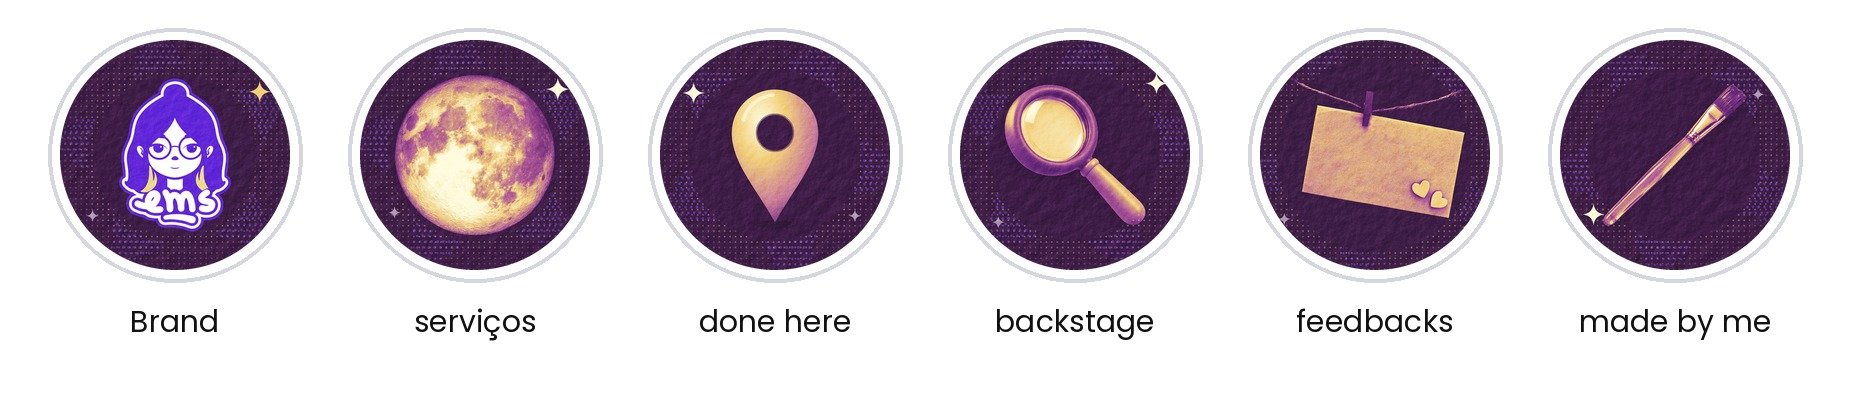
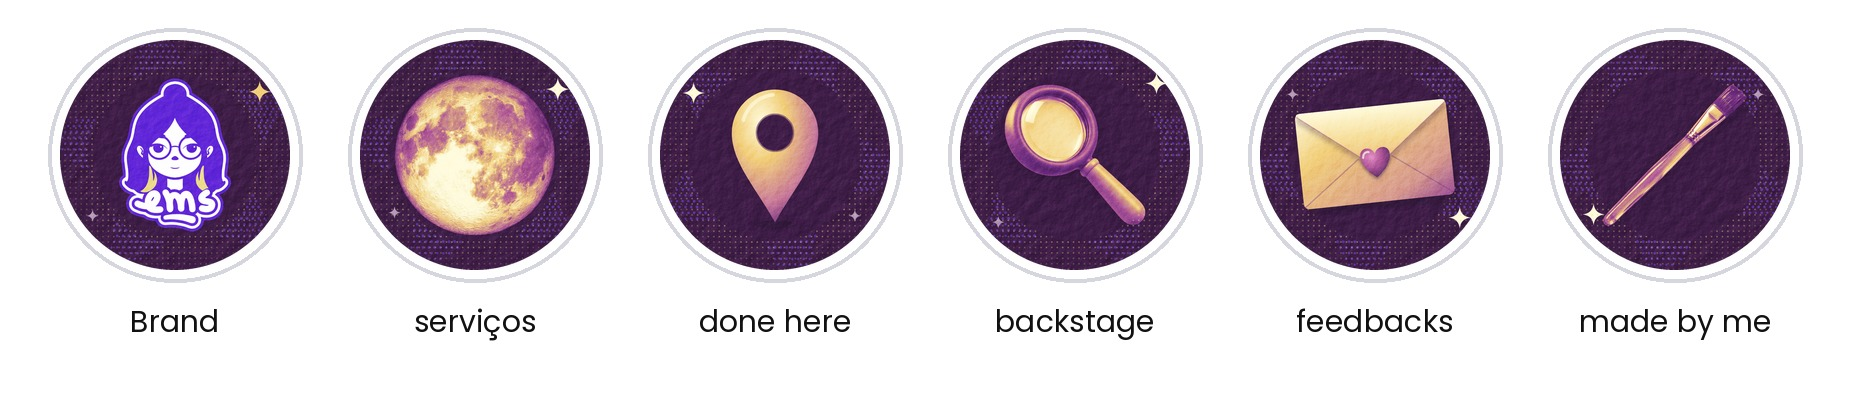
EMS destaques: feedbacks vira carta fechada com selo de coração
Claude-Session: https://claude.ai/code/session_01CmCiK84raHTtZ6V144shua

diff --git a/Emi/ems-stories-servicos/projeto/destaque.html b/Emi/ems-stories-servicos/projeto/destaque.html
@@ -65,12 +65,29 @@
   <i class="ic brilho g" style="left:280px;top:1150px;width:40px;height:40px;color:var(--lavanda);opacity:.9"></i>
   <i class="circ"></i>
 </section>
-<!-- feedbacks: o bilhete no varal (foto real, CC0) -->
-<section class="story d larga" data-nome="feedbacks">
+<!-- feedbacks: carta fechada com selo de coração -->
+<section class="story d" data-nome="feedbacks">
   <svg class="ht" data-star="540,960,470,violeta2,.5,-28"></svg>
-  <img class="fotoq" src="objetos/bilhete.jpg" style="left:175px;top:595px;width:730px" alt="">
-  <i class="ic brilho g" style="left:812px;top:1150px;width:70px;height:70px;color:var(--ivory)"></i>
-  <i class="ic brilho g" style="left:236px;top:1140px;width:40px;height:40px;color:var(--lavanda);opacity:.9"></i>
+  <svg class="obj carta" viewBox="0 0 400 290" style="width:500px;left:290px;top:780px;transform:rotate(-6deg)" xmlns="http://www.w3.org/2000/svg">
+    <defs>
+      <linearGradient id="cg" x1="0" y1="0" x2="1" y2="1"><stop offset="0" stop-color="#fffbde"/><stop offset=".3" stop-color="#f2cf7a"/><stop offset=".78" stop-color="#d79a8f"/><stop offset="1" stop-color="#9a4a94"/></linearGradient>
+      <linearGradient id="ca" x1="0" y1="0" x2="0" y2="1"><stop offset="0" stop-color="#fffbde"/><stop offset=".55" stop-color="#f6dc95"/><stop offset="1" stop-color="#e8b878"/></linearGradient>
+      <radialGradient id="cc" cx="36%" cy="30%" r="80%"><stop offset="0" stop-color="#e58fc6"/><stop offset=".45" stop-color="#b0569a"/><stop offset="1" stop-color="#4a1d58"/></radialGradient>
+      <filter id="cs" x="-20%" y="-20%" width="140%" height="160%"><feGaussianBlur stdDeviation="6"/></filter>
+      <filter id="ch" x="-40%" y="-40%" width="180%" height="200%"><feGaussianBlur stdDeviation="3.5"/></filter>
+    </defs>
+    <rect x="22" y="44" width="372" height="236" rx="14" fill="#2a1433" opacity=".5" filter="url(#cs)"/>
+    <rect x="10" y="22" width="380" height="240" rx="14" fill="url(#cg)"/>
+    <path d="M12 258L158 150M388 258L242 150" stroke="#6d2c80" stroke-width="3" stroke-linecap="round" opacity=".35" fill="none"/>
+    <path d="M14 34L200 176L386 34" fill="none" stroke="#2a1433" stroke-width="16" stroke-linejoin="round" opacity=".28" filter="url(#cs)"/>
+    <path d="M24 22H376Q390 22 386 30L212 166Q200 176 188 166L14 30Q10 22 24 22Z" fill="url(#ca)"/>
+    <path d="M14 30L188 166Q200 176 212 166L386 30" fill="none" stroke="#b0569a" stroke-width="2.5" opacity=".5"/>
+    <path transform="translate(200 172)" d="M0 34C-46 2 -44 -38 -22 -40C-8 -41 0 -30 0 -22C0 -30 8 -41 22 -40C44 -38 46 2 0 34Z" fill="#2a1433" opacity=".45" filter="url(#ch)"/>
+    <path transform="translate(200 166)" d="M0 34C-46 2 -44 -38 -22 -40C-8 -41 0 -30 0 -22C0 -30 8 -41 22 -40C44 -38 46 2 0 34Z" fill="url(#cc)"/>
+    <path transform="translate(200 166)" d="M-30 -18C-30 -28 -22 -33 -15 -31" fill="none" stroke="#fffbde" stroke-width="5" stroke-linecap="round" opacity=".75"/>
+  </svg>
+  <i class="ic brilho g" style="left:770px;top:1120px;width:70px;height:70px;color:var(--ivory)"></i>
+  <i class="ic brilho g" style="left:262px;top:750px;width:40px;height:40px;color:var(--lavanda);opacity:.9"></i>
   <i class="circ"></i>
 </section>
 <!-- made by me: o pincel -->
